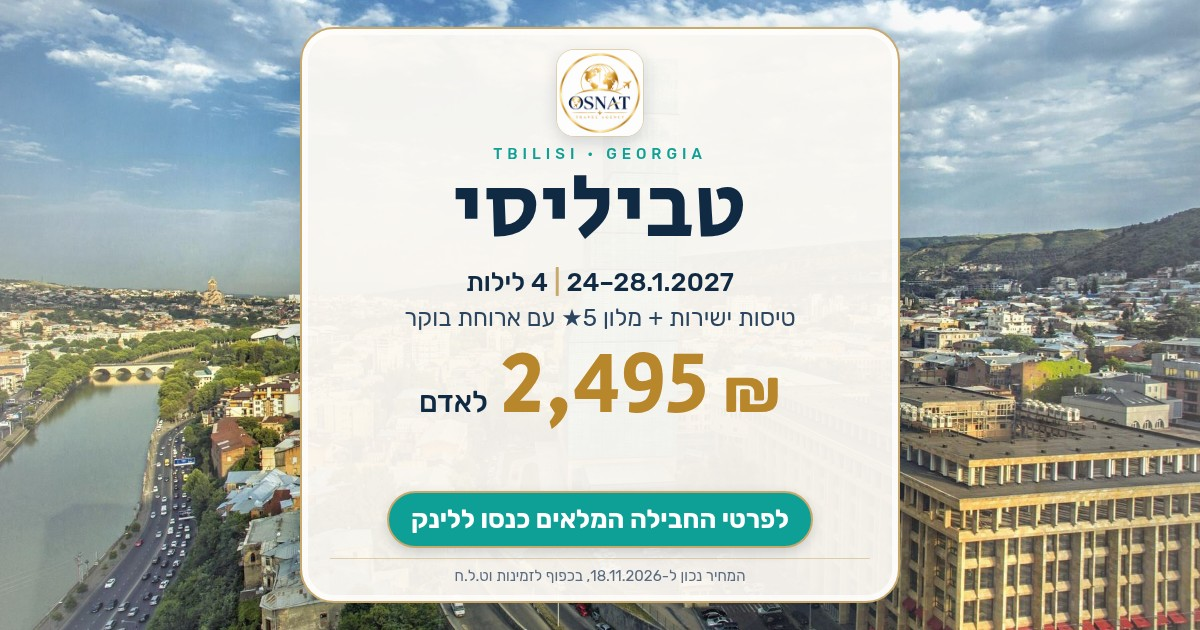
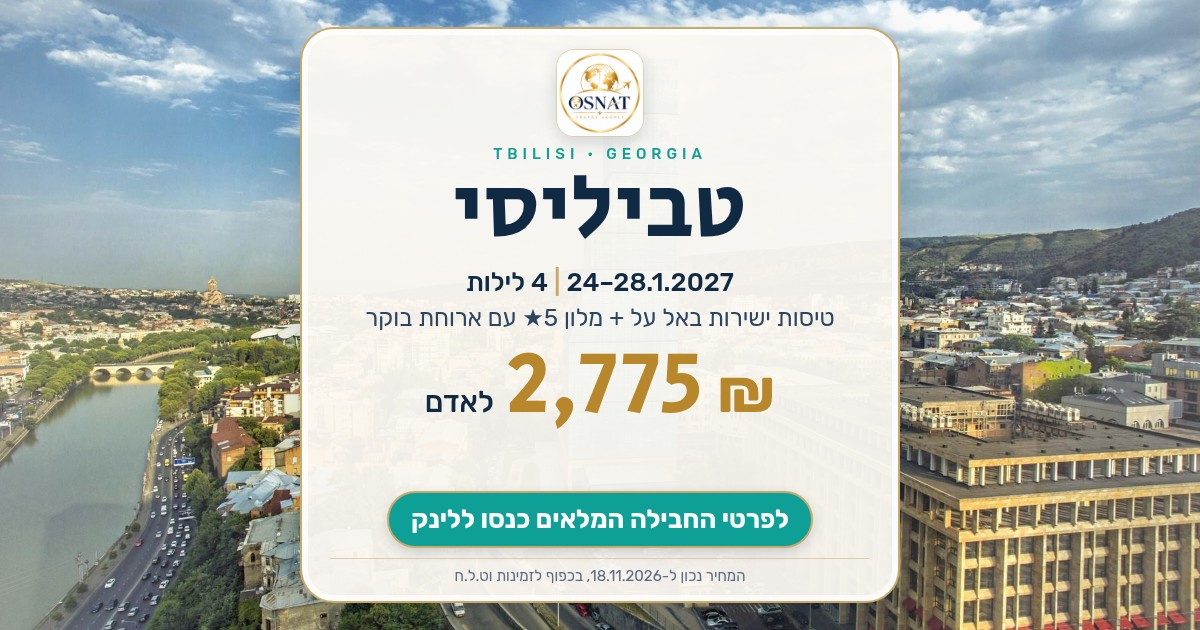
Update Tbilisi Biltmore preview to El Al round trip at 5,550 ₪
Switch both legs to El Al LY5117/LY5108 and set the package price to 2,775 ₪ per person.

Changed region(s): [[0.3083, 0.4825, 0.7092, 0.6937]]

diff --git a/preview/tbilisi-biltmore/index.html b/preview/tbilisi-biltmore/index.html
@@ -1,17 +1,17 @@
 <!DOCTYPE html>
 
 <html dir="rtl" lang="he"><head><meta charset="utf-8"/>
-<meta name="description" content="טיסות ישירות + מלון 5★ עם ארוחת בוקר · 2,495 ₪ לאדם · לפרטי החבילה המלאים כנסו ללינק">
-<meta property="og:title" content="טביליסי | 24–28.1.2027 | 2,495 ₪ לאדם">
-<meta property="og:description" content="טיסות ישירות + מלון 5★ עם ארוחת בוקר · 2,495 ₪ לאדם · לפרטי החבילה המלאים כנסו ללינק">
-<meta property="og:image" content="https://osnat-travel.com/preview/tbilisi-biltmore/og.jpg?v=1">
+<meta name="description" content="טיסות ישירות + מלון 5★ עם ארוחת בוקר · 2,775 ₪ לאדם · לפרטי החבילה המלאים כנסו ללינק">
+<meta property="og:title" content="טביליסי | 24–28.1.2027 | 2,775 ₪ לאדם">
+<meta property="og:description" content="טיסות ישירות + מלון 5★ עם ארוחת בוקר · 2,775 ₪ לאדם · לפרטי החבילה המלאים כנסו ללינק">
+<meta property="og:image" content="https://osnat-travel.com/preview/tbilisi-biltmore/og.jpg?v=2">
 <meta property="og:image:width" content="1200">
 <meta property="og:image:height" content="630">
 <meta property="og:url" content="https://osnat-travel.com/preview/tbilisi-biltmore/">
-<meta name="twitter:image" content="https://osnat-travel.com/preview/tbilisi-biltmore/og.jpg?v=1">
-<meta name="twitter:description" content="טיסות ישירות + מלון 5★ עם ארוחת בוקר · 2,495 ₪ לאדם · לפרטי החבילה המלאים כנסו ללינק">
-<meta name="twitter:title" content="טביליסי | 24–28.1.2027 | 2,495 ₪ לאדם">
-<meta property="og:image:alt" content="טביליסי | 24–28.1.2027 | 2,495 ₪ לאדם">
+<meta name="twitter:image" content="https://osnat-travel.com/preview/tbilisi-biltmore/og.jpg?v=2">
+<meta name="twitter:description" content="טיסות ישירות + מלון 5★ עם ארוחת בוקר · 2,775 ₪ לאדם · לפרטי החבילה המלאים כנסו ללינק">
+<meta name="twitter:title" content="טביליסי | 24–28.1.2027 | 2,775 ₪ לאדם">
+<meta property="og:image:alt" content="טביליסי | 24–28.1.2027 | 2,775 ₪ לאדם">
 <meta property="og:image:type" content="image/jpeg">
 <meta property="og:site_name" content="OSNAT TRAVEL AGENCY">
 <meta property="og:type" content="website">
@@ -41,16 +41,16 @@ footer{text-align:center;padding:24px;background:#102A43;color:#fff}bdi{white-sp
 <link href="/assets/vn/navbar.css" rel="stylesheet"/><script defer="" src="/assets/vn/navbar.js"></script><link href="https://fonts.googleapis.com/css2?family=Cinzel:wght@500;600&amp;family=Secular+One&amp;family=Rubik:wght@300;400;500;700&amp;display=swap" rel="stylesheet"/><link href="/assets/vn/vn-theme.css" rel="stylesheet"/>
 </head><body class="pg-deal" data-depart="2027-01-24">
 <section class="hero"><div class="logo"><img alt="OSNAT TRAVEL AGENCY" src="/assets/logo.png"/></div>
-<div><p class="vn-eyebrow">TBILISI · GEORGIA</p><h1>טביליסי</h1><div class="sub">4 לילות · ראשון–חמישי<span data-exp="date"> · <bdi>24–28.1.2027</bdi></span><br/>טיסות ישירות ישראייר ואל על + The Biltmore Tbilisi ⭐5 + ארוחת בוקר</div>
-<div class="price vn-pb" data-exp="price"><p class="pb-k">PRICE PER PERSON</p><div class="pb-amt"><bdi class="pb-price" dir="ltr"><span class="pb-num">2,495</span> <span class="pb-cur">₪</span></bdi></div><div class="pb-per">לאדם בחדר זוגי</div><span class="pb-chip"><bdi dir="ltr">4,990 <span class="pb-cur">₪</span></bdi> לזוג</span><div class="pb-meta">4 לילות · ראשון–חמישי · <bdi dir="ltr">24–28.1.2027</bdi> · ארוחת בוקר</div><div class="pb-note"><span>המחיר נכון ל-<bdi dir="ltr">18.11.2026</bdi></span><i> | </i><span data-until="2027-01-18">ביטול חינם של המלון עד <bdi dir="ltr">18.1.2027</bdi></span></div><a class="pb-wa" href="https://wa.me/972506413749?text=%D7%94%D7%99%D7%99%2C%20%D7%90%D7%A0%D7%99%20%D7%9E%D7%A2%D7%95%D7%A0%D7%99%D7%99%D7%9F/%D7%AA%20%D7%91%D7%97%D7%91%D7%99%D7%9C%D7%94%20%D7%9C%D7%98%D7%91%D7%99%D7%9C%D7%99%D7%A1%D7%99%2024%E2%80%9328.1.2027%20%E2%80%93%20The%20Biltmore%20Tbilisi" rel="noopener" target="_blank">💬 להזמנה בוואטסאפ</a></div><aside class="vn-exp" data-exp-note="" hidden=""><p class="k">NEW DATES</p><p class="vn-exp-t">לתאריכים ומחיר עדכניים – צרו קשר בוואטסאפ</p><a class="vn-exp-wa" href="https://wa.me/972506413749?text=%D7%94%D7%99%D7%99%2C%20%D7%90%D7%A9%D7%9E%D7%97%20%D7%9C%D7%AA%D7%90%D7%A8%D7%99%D7%9B%D7%99%D7%9D%20%D7%95%D7%9E%D7%97%D7%99%D7%A8%20%D7%A2%D7%93%D7%9B%D7%A0%D7%99%D7%99%D7%9D%20%D7%9C%D7%97%D7%91%D7%99%D7%9C%D7%94%3A%20%D7%98%D7%91%D7%99%D7%9C%D7%99%D7%A1%D7%99%20%E2%80%93%20The%20Biltmore%20Tbilisi" rel="noopener" target="_blank">💬 דברו איתנו בוואטסאפ</a></aside></div></section>
+<div><p class="vn-eyebrow">TBILISI · GEORGIA</p><h1>טביליסי</h1><div class="sub">4 לילות · ראשון–חמישי<span data-exp="date"> · <bdi>24–28.1.2027</bdi></span><br/>טיסות ישירות באל על + The Biltmore Tbilisi ⭐5 + ארוחת בוקר</div>
+<div class="price vn-pb" data-exp="price"><p class="pb-k">PRICE PER PERSON</p><div class="pb-amt"><bdi class="pb-price" dir="ltr"><span class="pb-num">2,775</span> <span class="pb-cur">₪</span></bdi></div><div class="pb-per">לאדם בחדר זוגי</div><span class="pb-chip"><bdi dir="ltr">5,550 <span class="pb-cur">₪</span></bdi> לזוג</span><div class="pb-meta">4 לילות · ראשון–חמישי · <bdi dir="ltr">24–28.1.2027</bdi> · ארוחת בוקר</div><div class="pb-note"><span>המחיר נכון ל-<bdi dir="ltr">18.11.2026</bdi></span><i> | </i><span data-until="2027-01-18">ביטול חינם של המלון עד <bdi dir="ltr">18.1.2027</bdi></span></div><a class="pb-wa" href="https://wa.me/972506413749?text=%D7%94%D7%99%D7%99%2C%20%D7%90%D7%A0%D7%99%20%D7%9E%D7%A2%D7%95%D7%A0%D7%99%D7%99%D7%9F/%D7%AA%20%D7%91%D7%97%D7%91%D7%99%D7%9C%D7%94%20%D7%9C%D7%98%D7%91%D7%99%D7%9C%D7%99%D7%A1%D7%99%2024%E2%80%9328.1.2027%20%E2%80%93%20The%20Biltmore%20Tbilisi" rel="noopener" target="_blank">💬 להזמנה בוואטסאפ</a></div><aside class="vn-exp" data-exp-note="" hidden=""><p class="k">NEW DATES</p><p class="vn-exp-t">לתאריכים ומחיר עדכניים – צרו קשר בוואטסאפ</p><a class="vn-exp-wa" href="https://wa.me/972506413749?text=%D7%94%D7%99%D7%99%2C%20%D7%90%D7%A9%D7%9E%D7%97%20%D7%9C%D7%AA%D7%90%D7%A8%D7%99%D7%9B%D7%99%D7%9D%20%D7%95%D7%9E%D7%97%D7%99%D7%A8%20%D7%A2%D7%93%D7%9B%D7%A0%D7%99%D7%99%D7%9D%20%D7%9C%D7%97%D7%91%D7%99%D7%9C%D7%94%3A%20%D7%98%D7%91%D7%99%D7%9C%D7%99%D7%A1%D7%99%20%E2%80%93%20The%20Biltmore%20Tbilisi" rel="noopener" target="_blank">💬 דברו איתנו בוואטסאפ</a></aside></div></section>
 <main class="wrap">
-<div class="card" style="--c:#1877F2"><p class="k">OUTBOUND FLIGHT</p><h2 class="vh">טיסת <span class="grad">הלוך</span></h2><ul><li>טיסה ישירה ישראייר <bdi>6H897</bdi></li>
+<div class="card" style="--c:#1877F2"><p class="k">OUTBOUND FLIGHT</p><h2 class="vh">טיסת <span class="grad">הלוך</span></h2><ul><li>טיסה ישירה אל על <bdi>LY5117</bdi></li>
 <li><span data-exp="date">ראשון <bdi>24.1.2027</bdi></span></li></ul>
 <div aria-label="שעות טיסת הלוך" class="flt" role="group">
-<div class="flt-row"><span class="flt-lbl">המראה</span><span class="flt-place">תל אביב <bdi>(TLV)</bdi></span><span class="flt-time"><bdi>19:00</bdi></span></div>
-<div class="flt-row"><span class="flt-lbl">נחיתה</span><span class="flt-place">טביליסי <bdi>(TBS)</bdi></span><span class="flt-time"><bdi>23:35</bdi></span></div>
+<div class="flt-row"><span class="flt-lbl">המראה</span><span class="flt-place">תל אביב <bdi>(TLV)</bdi></span><span class="flt-time"><bdi>06:25</bdi></span></div>
+<div class="flt-row"><span class="flt-lbl">נחיתה</span><span class="flt-place">טביליסי <bdi>(TBS)</bdi></span><span class="flt-time"><bdi>11:00</bdi></span></div>
 </div>
-<ul><li>כלול תיק אישי בלבד (<bdi>40×30×20</bdi>); טרולי ומזוודה בתוספת תשלום</li></ul><p class="small" style="margin-top:6px">השעות לפי שעון מקומי ועשויות להשתנות.</p></div>
+<ul><li>כלולה כבודת יד אחת עד 8 ק״ג; מזוודה של 23 ק״ג בתוספת תשלום</li></ul><p class="small" style="margin-top:6px">השעות לפי שעון מקומי ועשויות להשתנות.</p></div>
 <div class="card hot" style="--c:#E0457B"><p class="k">THE HOTEL</p><h2 class="vh">The Biltmore <span class="grad">Tbilisi</span> ⭐5</h2><ul><li><bdi dir="ltr">29 Shota Rustaveli Ave</bdi>, טביליסי</li><li>חדר דה-לקס זוגי, מיטת קינג</li><li>ארוחת בוקר כלולה</li><li data-exp="date">צ׳ק-אין <bdi>24.1.2027</bdi> · צ׳ק-אאוט <bdi>28.1.2027</bdi></li><li data-exp="date">ביטול חינם של המלון עד <bdi>18.1.2027</bdi></li></ul>
 <img alt="The Biltmore Tbilisi" class="main-ph" data-open="" src="/preview/tbilisi-biltmore/img/hero.jpg"/>
 <div class="thumbs">
@@ -66,11 +66,11 @@ footer{text-align:center;padding:24px;background:#102A43;color:#fff}bdi{white-sp
 <div class="flt-row"><span class="flt-lbl">המראה</span><span class="flt-place">טביליסי <bdi>(TBS)</bdi></span><span class="flt-time"><bdi>11:00</bdi></span></div>
 <div class="flt-row"><span class="flt-lbl">נחיתה</span><span class="flt-place">תל אביב <bdi>(TLV)</bdi></span><span class="flt-time"><bdi>11:40</bdi></span></div>
 </div>
-<ul><li>כלולה כבודת יד אחת עד 8 ק״ג; מזוודה בתוספת תשלום</li></ul></div>
+<ul><li>כלולה כבודת יד אחת עד 8 ק״ג; מזוודה של 23 ק״ג בתוספת תשלום</li></ul></div>
 <div class="card" style="--c:#00A6A6"><p class="k">WHAT'S INCLUDED</p><h2 class="vh">מה כלול <span class="grad">בדיל?</span></h2><ul>
-<li>טיסת הלוך ישירה ישראייר וטיסת חזור ישירה אל על, תל אביב–טביליסי</li><li>בהלוך כלול תיק אישי בלבד (<bdi>40×30×20</bdi>); טרולי ומזוודה בתוספת תשלום</li><li>בחזור כלולה כבודת יד אחת עד 8 ק״ג; מזוודה בתוספת תשלום</li>
+<li>טיסות ישירות הלוך ושוב באל על, תל אביב–טביליסי</li><li>כלולה כבודת יד אחת עד 8 ק״ג בכל כיוון; מזוודה של 23 ק״ג בתוספת תשלום</li>
 <li>4 לילות במלון The Biltmore Tbilisi ⭐5, חדר דה-לקס זוגי, מיטת קינג</li><li>ארוחת בוקר כלולה</li><li>המלצות מלאות ליעד</li><li>ליווי אישי ומלא עד החזרה לארץ – ללא תוספת תשלום</li></ul></div>
-<aside class="vn-exp" data-exp-note="" hidden=""><p class="k">NEW DATES</p><p class="vn-exp-t">לתאריכים ומחיר עדכניים – צרו קשר בוואטסאפ</p><a class="vn-exp-wa" href="https://wa.me/972506413749?text=%D7%94%D7%99%D7%99%2C%20%D7%90%D7%A9%D7%9E%D7%97%20%D7%9C%D7%AA%D7%90%D7%A8%D7%99%D7%9B%D7%99%D7%9D%20%D7%95%D7%9E%D7%97%D7%99%D7%A8%20%D7%A2%D7%93%D7%9B%D7%A0%D7%99%D7%99%D7%9D%20%D7%9C%D7%97%D7%91%D7%99%D7%9C%D7%94%3A%20%D7%98%D7%91%D7%99%D7%9C%D7%99%D7%A1%D7%99%20%E2%80%93%20The%20Biltmore%20Tbilisi" rel="noopener" target="_blank">💬 דברו איתנו בוואטסאפ</a></aside><div class="card" data-exp="price" style="--c:#F5A623"><p class="k">THE PRICE</p><h2 class="vh"><span class="grad">מחיר</span></h2><p><b><bdi>2,495 ₪</bdi></b> לאדם בחדר זוגי · <b><bdi>4,990 ₪</bdi></b> לזוג</p>
+<aside class="vn-exp" data-exp-note="" hidden=""><p class="k">NEW DATES</p><p class="vn-exp-t">לתאריכים ומחיר עדכניים – צרו קשר בוואטסאפ</p><a class="vn-exp-wa" href="https://wa.me/972506413749?text=%D7%94%D7%99%D7%99%2C%20%D7%90%D7%A9%D7%9E%D7%97%20%D7%9C%D7%AA%D7%90%D7%A8%D7%99%D7%9B%D7%99%D7%9D%20%D7%95%D7%9E%D7%97%D7%99%D7%A8%20%D7%A2%D7%93%D7%9B%D7%A0%D7%99%D7%99%D7%9D%20%D7%9C%D7%97%D7%91%D7%99%D7%9C%D7%94%3A%20%D7%98%D7%91%D7%99%D7%9C%D7%99%D7%A1%D7%99%20%E2%80%93%20The%20Biltmore%20Tbilisi" rel="noopener" target="_blank">💬 דברו איתנו בוואטסאפ</a></aside><div class="card" data-exp="price" style="--c:#F5A623"><p class="k">THE PRICE</p><h2 class="vh"><span class="grad">מחיר</span></h2><p><b><bdi>2,775 ₪</bdi></b> לאדם בחדר זוגי · <b><bdi>5,550 ₪</bdi></b> לזוג</p>
 <p>טיסות עד 6 תשלומים, מלון עד 9 תשלומים, ללא ריבית</p>
 <p class="small" style="margin-top:8px">המחיר נכון ל-<bdi>18.11.2026</bdi> | ביטול חינם של המלון עד <bdi>18.1.2027</bdi></p></div>
 <a class="btn" href="tel:+972506413749" style="background:#102A43">חייגו <bdi>050-6413749</bdi></a>
